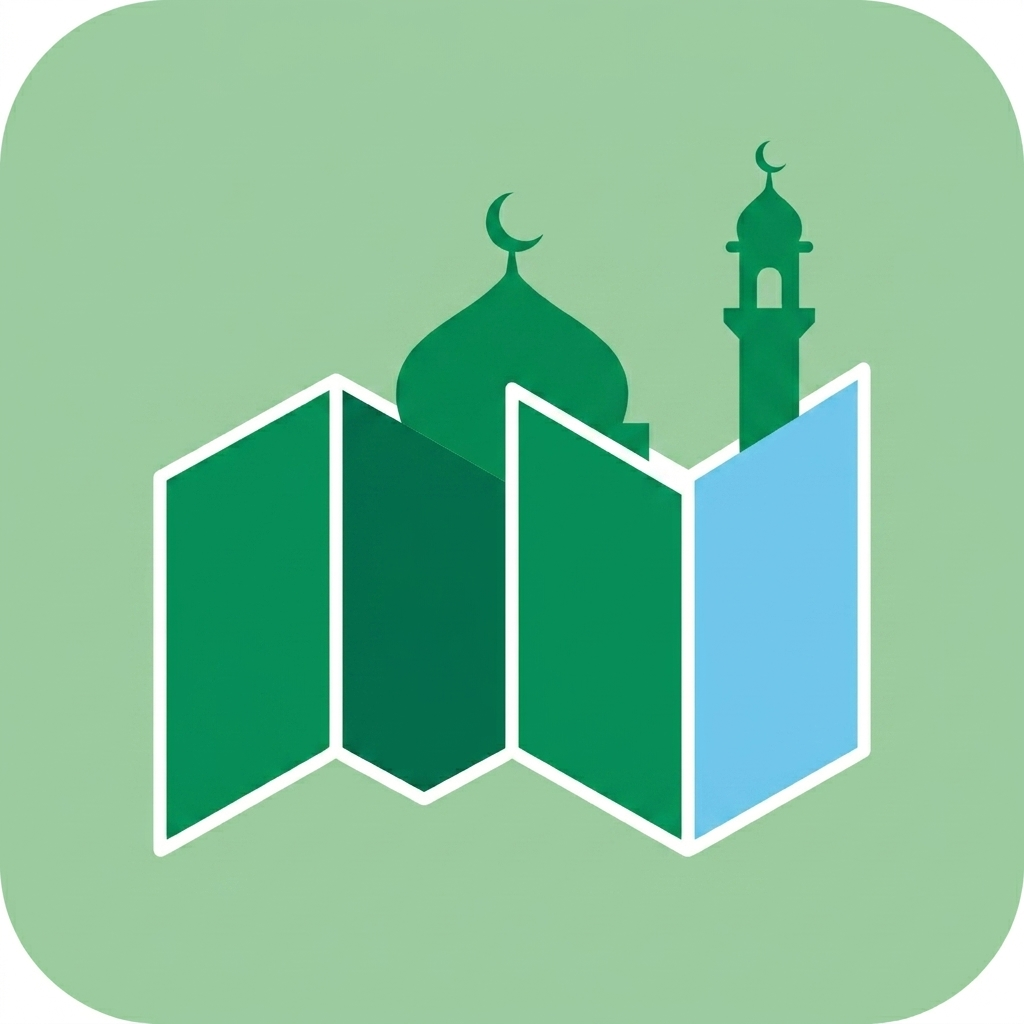
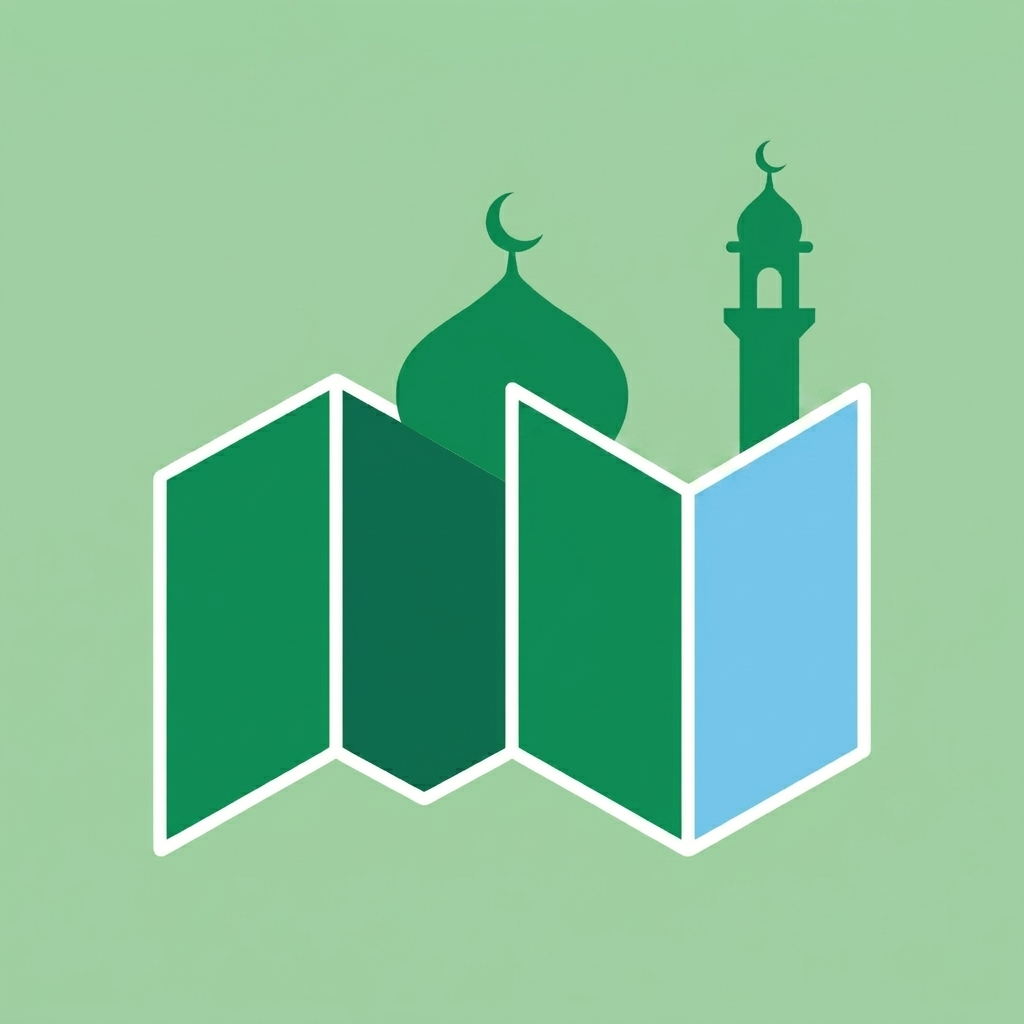
Add comprehensive README and finalise v1.0.0 assets

diff --git a/README.md b/README.md
@@ -1,0 +1,174 @@
+<h1 align="center">
+  <img src="assets/app_logo.png" width="100" alt="Muslim Atlas Logo" /><br/>
+  Muslim Atlas
+</h1>
+
+<p align="center">
+  <strong>Find mosques, halal food, and prayer times — all in one place.</strong>
+</p>
+
+<p align="center">
+  <img src="https://img.shields.io/badge/platform-Android-green?style=flat-square&logo=android" />
+  <img src="https://img.shields.io/badge/version-1.0.0-blue?style=flat-square" />
+  <img src="https://img.shields.io/badge/built%20with-Expo%20%2F%20React%20Native-blueviolet?style=flat-square&logo=expo" />
+  <img src="https://img.shields.io/badge/license-Private-lightgrey?style=flat-square" />
+</p>
+
+---
+
+## Overview
+
+Muslim Atlas is a mobile application built for the Muslim community in the UK and beyond. It brings together mosque finding, halal food discovery, and accurate Islamic prayer times into a single, clean, and fast experience.
+
+The app is designed to be genuinely useful day-to-day — whether you need to find the nearest mosque on the go, check when Asr is today, or locate a halal restaurant nearby. It runs without ads and without subscriptions.
+
+---
+
+## Vision
+
+The Muslim community deserves tools built specifically for them, not adapted from generic apps. Muslim Atlas aims to become the go-to companion app for Muslims navigating their daily lives — starting with the UK and expanding globally.
+
+Future ambitions include:
+
+- iOS release
+- Community-contributed mosque data and reviews
+- Qibla compass and Islamic calendar integration
+- Event listings (Jumu'ah times, Ramadan programmes)
+- Masjid profiles with live opening hours and facilities info
+- Monetisation through non-intrusive, community-relevant advertising
+
+---
+
+## Features
+
+### Mosque Finder
+- Interactive Mapbox-powered map showing nearby mosques
+- Tap any pin to view mosque details, opening hours, prayer times, and facilities
+- List view with distance sorting for quick scanning
+- Smart camera clustering that zooms into dense pin groups automatically
+- "Search this area" prompt when panning the map manually
+- Turn-by-turn navigation to any mosque via integrated Mapbox Navigation
+
+### Halal Food
+- Dual-query search for halal restaurants and takeaways near your location
+- Distance-prioritised results (closest first)
+- Deduplicated results across query types
+- Tap pins or list items to view place details and get directions
+
+### Prayer Times
+- Accurate Islamic prayer time calculation using the `adhan` library
+- Support for multiple calculation methods: London Unified (UK), Muslim World League, Egyptian, Umm Al-Qura, ISNA, Karachi, Turkey, Dubai, Singapore, Tehran, and Moonsighting Committee
+- High latitude adjustment rules: Auto, Twilight Angle, Seventh of the Night, Middle of the Night
+- Timezone-aware calculations using each location's local timezone
+- Hanafi/Standard Asr method toggle
+- Prayer times shown on the home screen, mosque detail sheets, and the Android home screen widget
+
+### Android Home Screen Widget
+- Displays all 5 daily prayer times plus Sunrise at a glance
+- Shows current prayer, next prayer, location name, Gregorian and Hijri date
+- Premium gradient background (sky blue to slate dark)
+- Updates automatically every 30 minutes
+
+### User Accounts
+- Optional Firebase authentication (email/password and Google Sign-In)
+- Saves preferences and settings per account
+
+### Settings
+- Light and dark theme support
+- Calculation method and high latitude rule selection
+- Hanafi Asr toggle
+- Support link to Buy Me a Coffee
+
+---
+
+## Screenshots
+
+> Coming soon.
+
+---
+
+## Tech Stack
+
+| Layer | Technology |
+|---|---|
+| Framework | React Native (Expo SDK 54) |
+| Maps | Mapbox Maps SDK (`@rnmapbox/maps`) |
+| Navigation | Mapbox Navigation (`@youssefhenna/expo-mapbox-navigation`) |
+| Prayer Times | Adhan JS (`adhan`) |
+| Backend / Auth | Firebase (Firestore + Auth) |
+| Places Search | Google Places API (New) |
+| Widget | `react-native-android-widget` |
+| State Management | React Context API |
+| Storage | AsyncStorage |
+| Animations | Reanimated + Gesture Handler |
+
+---
+
+## Installation
+
+### Prerequisites
+
+- Node.js 18+
+- Android Studio with Android SDK (API 24+)
+- Java 17
+- Expo CLI (`npm install -g expo-cli`)
+
+### Environment Variables
+
+Create a `.env` file in the project root with the following keys:
+
+```env
+EXPO_PUBLIC_FIREBASE_API_KEY=
+EXPO_PUBLIC_FIREBASE_AUTH_DOMAIN=
+EXPO_PUBLIC_FIREBASE_PROJECT_ID=
+EXPO_PUBLIC_FIREBASE_STORAGE_BUCKET=
+EXPO_PUBLIC_FIREBASE_MESSAGING_SENDER_ID=
+EXPO_PUBLIC_FIREBASE_APP_ID=
+EXPO_PUBLIC_GOOGLE_PLACES_API_KEY=
+RNMAPBOX_MAPS_DOWNLOAD_TOKEN=
+EXPO_PUBLIC_MAPBOX_ACCESS_TOKEN=
+```
+
+### Running in Development
+
+```bash
+npm install
+npx expo run:android
+```
+
+### Building a Release APK
+
+```bash
+npx expo prebuild --platform android --no-install
+cd android
+./gradlew assembleRelease
+```
+
+The signed APK will be output to:
+```
+android/app/build/outputs/apk/release/app-release.apk
+```
+
+---
+
+## Download
+
+Pre-built release APKs are available on the [Releases](https://github.com/YusufQuresh1/Muslim-Atlas/releases) page.
+
+> Google Play Store listing coming soon.
+
+---
+
+## Support
+
+If Muslim Atlas has been useful to you, you can support its development at:
+
+**[buymeacoffee.com/muslimatlas](https://buymeacoffee.com/muslimatlas)**
+
+Every contribution helps cover API and server costs. JazakAllah khayran.
+
+---
+
+## License
+
+This project is private. All rights reserved. Not licensed for redistribution or commercial use.
